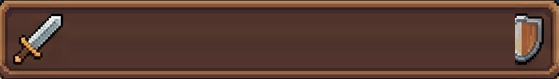
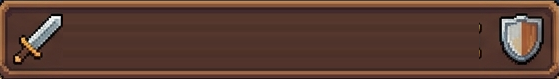
Base: placa centralizada na viga + escudo completo (nao cortado)
- Placa centralizada verticalmente na viga (translate(-50%,-50%), top no centro da borda:
  base -10 / detail -9) — igual acima e abaixo, nao mais baixa
- Recorte da placa: para de pintar o texto ANTES do escudo (x504) usando coluna de
  madeira limpa entre texto e escudo -> escudo inteiro, cor correta, sem corte

Claude-Session: https://claude.ai/code/session_01EbSkREzXFkmQR9kLV1N6oq

Changed region(s): [[0.8515, 0.2025, 0.9428, 0.7848]]

diff --git a/vibe-gambit/index.html b/vibe-gambit/index.html
@@ -46,7 +46,7 @@
   .base-frame > *{image-rendering:auto}
   /* placa: aspect-ratio real (586x81) pra NÃO esticar/cortar espada+escudo, acima da moldura */
   /* placa MONTADA na viga superior (encostada na madeira, sem flutuar) */
-  .base-title{position:absolute;top:-15px;left:50%;transform:translateX(-50%);z-index:4;
+  .base-title{position:absolute;top:-10px;left:50%;transform:translate(-50%,-50%);z-index:4;
     width:min(400px,72%);aspect-ratio:559/79;border-radius:8px;overflow:hidden;
     background:url(assets/ribbon.png) center/100% 100% no-repeat;image-rendering:pixelated;
     display:flex;align-items:center;justify-content:center;
@@ -128,7 +128,7 @@
     background:var(--panel);background-clip:padding-box;border-radius:10px;
     padding:16px 12px 12px;image-rendering:pixelated}
   .detail-frame > *{image-rendering:auto}
-  .detail-title{position:absolute;top:-14px;left:50%;transform:translateX(-50%);z-index:4;
+  .detail-title{position:absolute;top:-9px;left:50%;transform:translate(-50%,-50%);z-index:4;
     width:min(360px,82%);aspect-ratio:559/79;border-radius:8px;overflow:hidden;background:url(assets/ribbon.png) center/100% 100% no-repeat;image-rendering:pixelated;
     display:flex;align-items:center;justify-content:center;color:#fbeecb;font-size:11px;font-weight:400;letter-spacing:.2px;padding:0 17%;text-transform:uppercase;white-space:nowrap;text-shadow:0 1px 0 #2c1a0c,0 2px 2px #2c1a0c}
   .detail-title span{image-rendering:auto;padding-bottom:2px}
